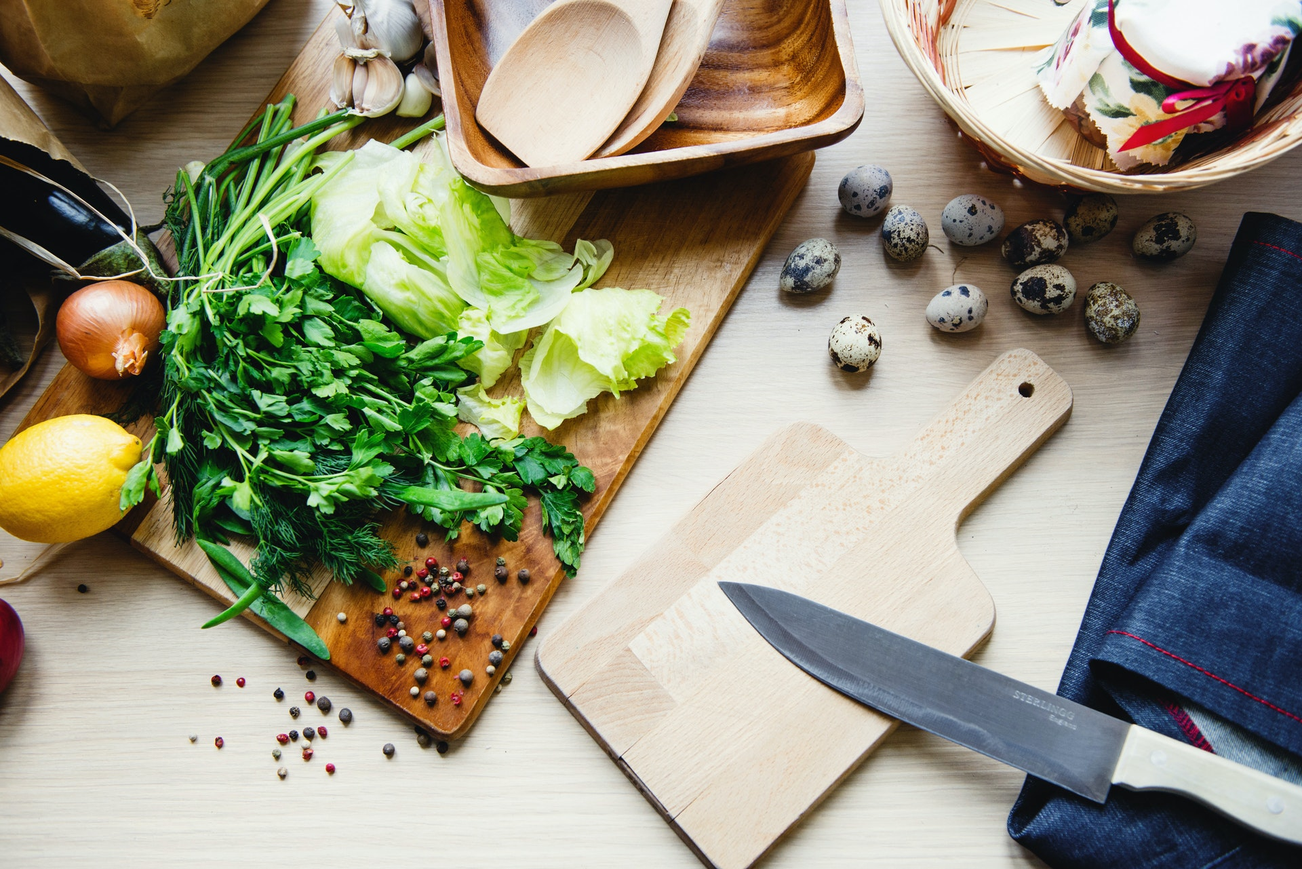
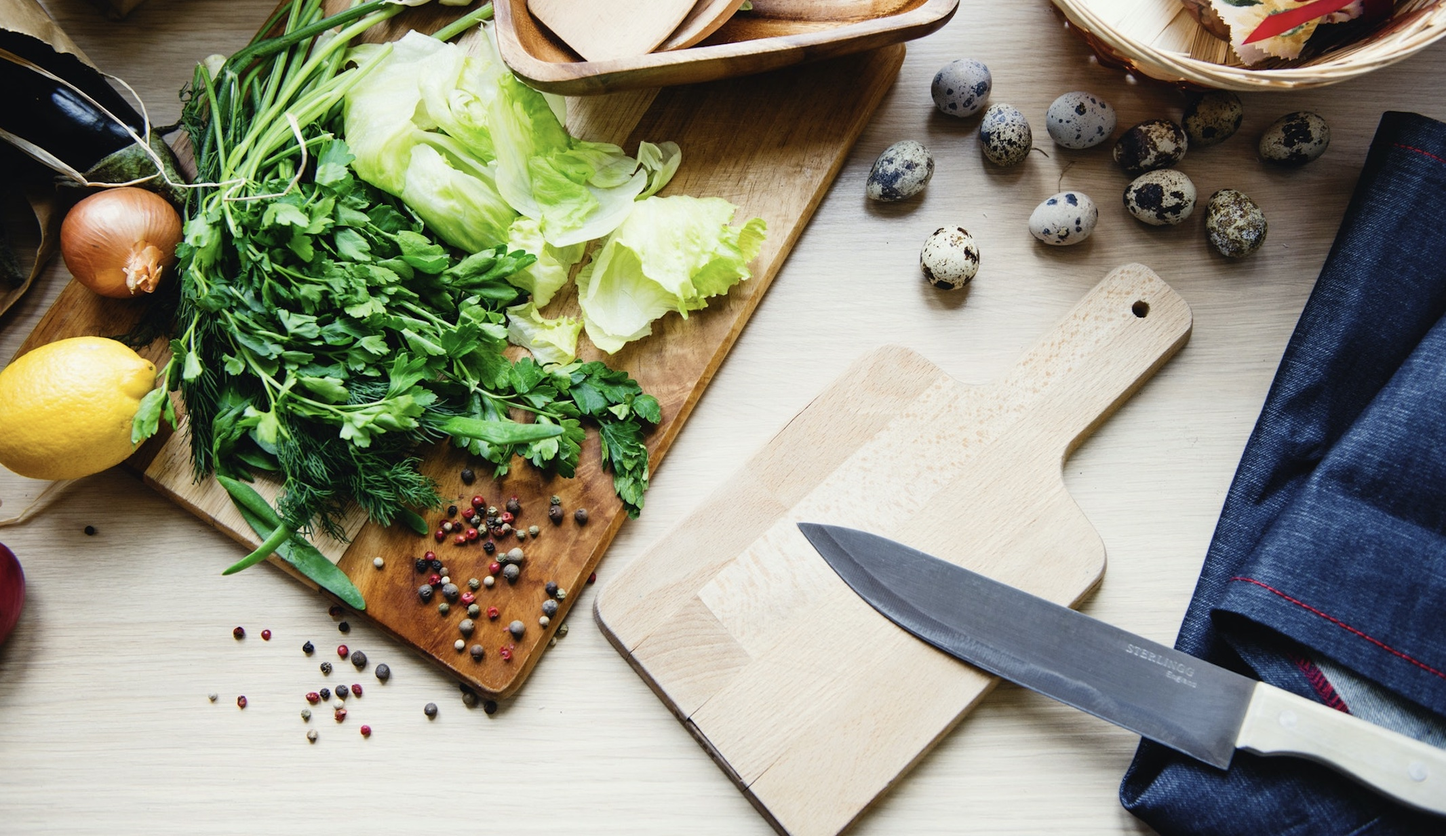
Added lots of HTML and CSS

diff --git a/index.html b/index.html
@@ -1,0 +1,59 @@
+<!DOCTYPE html>
+<html lang="en">
+<head>
+    <meta charset="UTF-8">
+    <meta name="viewport" content="width=device-width, initial-scale=1.0">
+    <title>Freshest</title>
+    <link rel="stylesheet" href="./assets/style.css">
+</head>
+<body>
+    <header>
+        <nav>
+            <h1>Freshest</h1>
+            <ul>
+                <li>
+                    <a href="#home">Home</a>
+                </li>
+                <li>
+                    <a href="#menu">Menu</a>
+                </li>
+                <li>
+                    <a href="#contact">Contact</a>
+                </li>
+            </ul>
+        </nav>
+        <hr>
+        <div class="container0">
+            <h2>Freshest</h2>
+            <hr id="line">
+            <p>Clean. Healthy. Always Fresh Foods</p>
+        </div>
+    </header>
+
+    <main>
+        <div class="mainContainer">
+            <div class="container1">
+                <img src="./assets/images/human-holding-a-bread-745988.jpg" alt="Photo of person holding bread" id="bread-image">
+                <h3>Lorem Ipsum Dolar</h3>
+                <p>Aliquam ut ex ut angue consectetur interdum. Donec hendrerit imperdiet. 
+                 Mauris eleifend fringilla nullam aenean mi ligula.
+                </p>
+            </div>
+            <div class="container2">
+                <h3>Lorem Ipsum Dolar</h3>
+                <p>Aliquam ut ex ut augue consectetur interdum. Donec hendrerit imperdiet.
+                Mauris eleifend fringilla nullam aesean mi ligula. 
+                </p>
+                <img src="./assets/images/green-pineapple-fruit-with-brown-framed-sunglasses-beside-1161547.jpg" alt="Picture of pineapple" id="pineapple-image">
+            </div>
+            <div class="container3">
+                <img src="./assets/images/cooked-pasta-on-brown-wooden-bowl-803963.jpg" alt="Picture of cooked pasta" id="pasta-image">
+                <h3>Lorem Ipsum Dolar</h3>
+                <p>Aliquam ut ex ut augue consectetur interdum. Donec hendrerit imperdiet.
+                Mauris eleifend fringilla nullam aesean mi ligula. 
+            </div>
+        </div>
+    </main>
+
+</body>
+</html>

diff --git a/assets/style.css b/assets/style.css
@@ -1,0 +1,105 @@
+body {
+    margin: 0;
+    font-family: Arial, Helvetica, sans-serif;
+    background-color: black;
+}
+
+header {
+    background-image: url("/assets/images/green-vegetables-on-brown-wooden-chopping-board-3952047.jpg");
+    background-size: 1200px;
+    image-resolution: 90px;
+    height: 500px;
+    color: white;
+    padding: 14px;
+    justify-content: space-between;
+    opacity: 0.9;
+    
+}
+
+nav ul {
+    display: flex;
+    list-style-type: none;
+    justify-content: flex-end;
+    margin-top: -40px;
+}
+
+nav a {
+    color: white;
+    text-decoration: none;
+    padding: 18px;
+}
+
+.container0 {
+    margin: 100px;
+    text-align: center;
+}
+
+.container0 h2 {
+    font-size: 70px;
+    font-weight: bold;
+}
+
+#line {
+    width: 600px;
+}
+
+.container0 p {
+    font-size: 30px;
+}
+
+.mainContainer {
+    color: white;
+}
+
+.container1 {
+    display: flex;
+}
+
+#bread-image {
+    width: 450px;
+}
+
+.container1 h3 {
+    padding: 10px;
+    width: 400px;
+}
+
+.container1 p {
+    margin-top: 120px;
+}
+
+.container2 {
+    display: flex;
+}
+
+#pineapple-image {
+    width: 450px;
+}
+
+.container2 h3 {
+    padding: 10px;
+    width: 400px;
+}
+
+.container2 p {
+    margin-top: 120px;
+}
+
+.container3 {
+    display: flex;
+}
+
+.container3 h3 {
+    padding: 10px;
+    padding: 10px;
+    width: 400px;
+}
+
+.container3 p {
+    margin-top: 120px;
+}
+
+
+#pasta-image {
+    width: 450px;
+}
